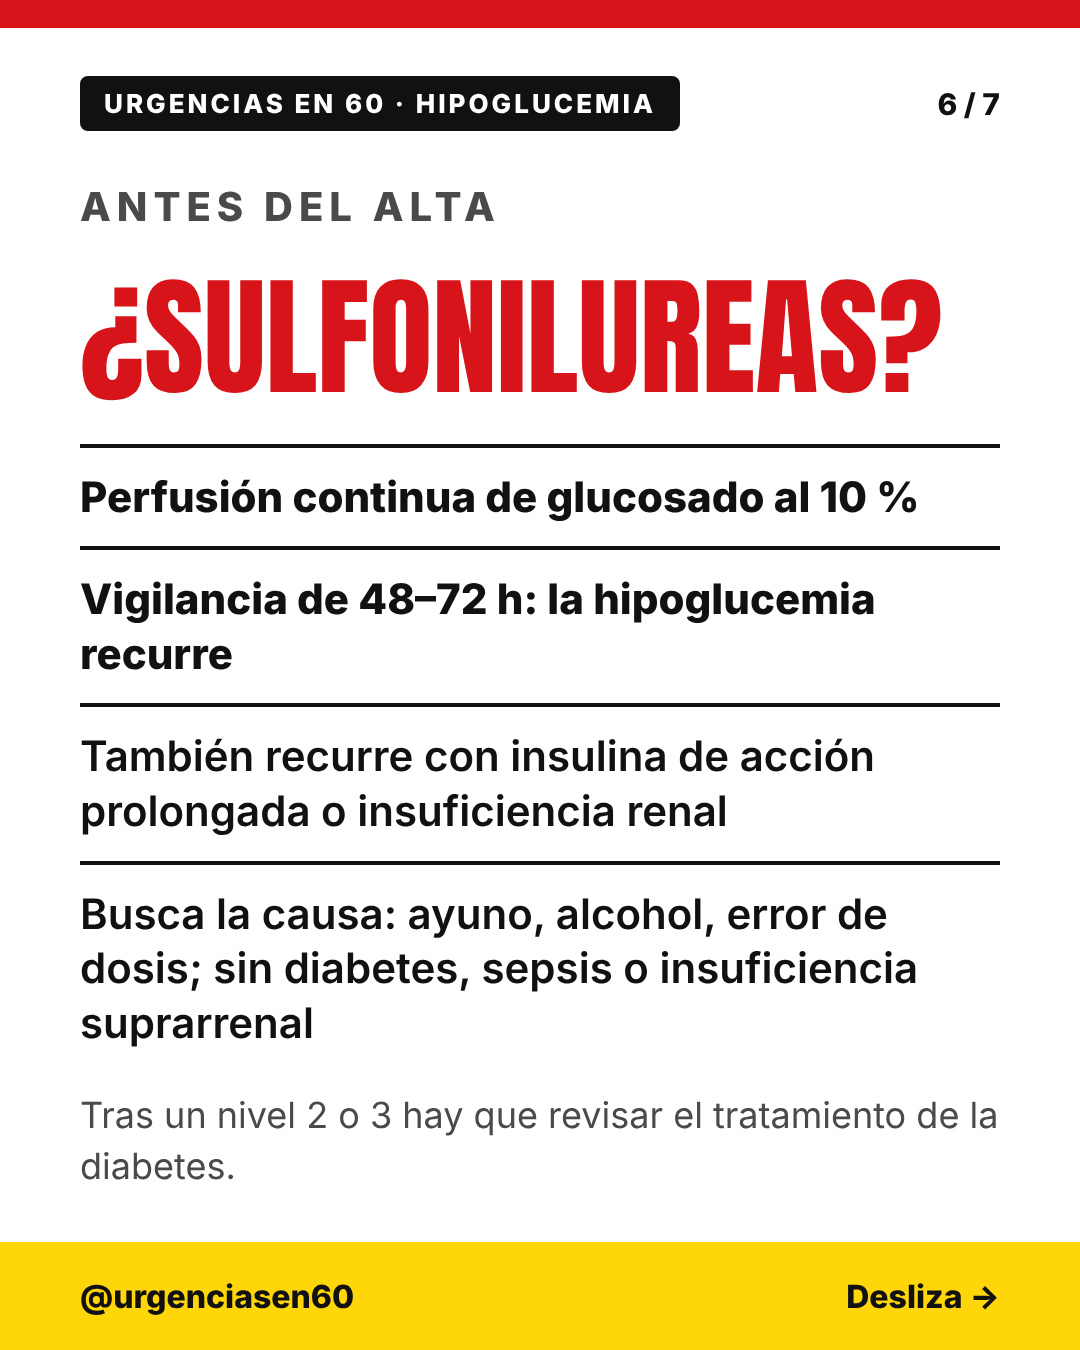
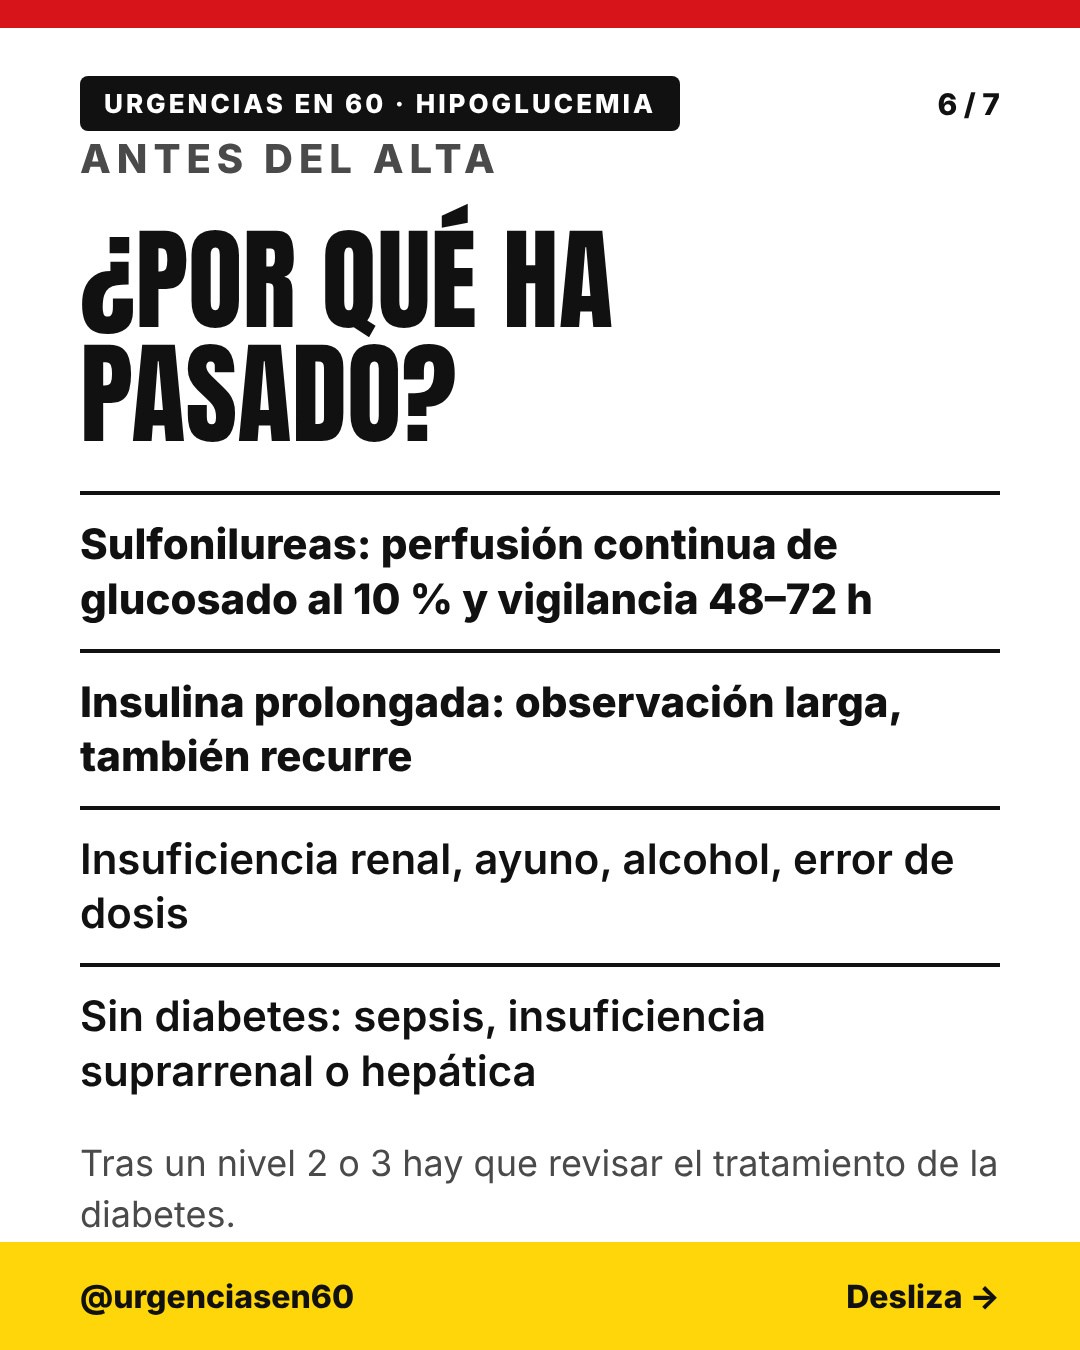
Ficha 05: recupera diapo 6 «¿Por qué ha pasado?» con sulfonilureas (G10 % y 48-72 h)
Claude-Session: https://claude.ai/code/session_019S5PG2ppqwuZwMv2DxeA6e

Changed region(s): [[0.0611, 0.0933, 0.9167, 0.9333]]

diff --git a/tools/hipoglucemia.py b/tools/hipoglucemia.py
@@ -9,7 +9,7 @@ page(2,N,T,big("TRES NIVELES",150,nowrap=True)+rows(row("Nivel 1","&lt; 70 y ≥
 page(3,N,T,kicker("SI ESTÁ CONSCIENTE")+big("REGLA 15 / 15",165,R,True)+'<div style="font-size:50px;font-weight:800;line-height:1.2">15–20 g de glucosa oral y nueva glucemia a los 15 min</div>'+rows(line("Si sigue &lt; 70 mg/dl, repite la dosis"),line("Al recuperarse: hidratos de absorción lenta para evitar la recaída",True))),
 page(4,N,T,kicker("SI NO PUEDE TRAGAR")+big("GLUCOSA IV",190,R,True)+rows(row("Dosis","10–25 g de glucosa IV"),row("Glucosado al 10 %","100–250 ml"),row("Glucosado al 33 %","30–75 ml"),row("Glucosado al 50 %","20–50 ml"))+note("Glucemia de control a los 15 min y repite si sigue baja. Las concentraciones altas irritan la vena: usa una vía gruesa.")),
 page(5,N,T,kicker("SIN VÍA VENOSA")+big("GLUCAGÓN",220,R,True)+'<div style="font-size:50px;font-weight:800;line-height:1.2">1 mg intramuscular o subcutáneo</div>'+rows(line("También existe la presentación intranasal"),line("Responde peor si no hay reservas de glucógeno: desnutrición, alcohol, hepatopatía",True))),
-page(6,N,T,kicker("ANTES DEL ALTA")+big("¿SULFONILUREAS?",130,R,True)+rows(line("Perfusión continua de glucosado al 10 %",True),line("Vigilancia de 48–72 h: la hipoglucemia recurre",True),line("También recurre con insulina de acción prolongada o insuficiencia renal"),line("Busca la causa: ayuno, alcohol, error de dosis; sin diabetes, sepsis o insuficiencia suprarrenal"))+note("Tras un nivel 2 o 3 hay que revisar el tratamiento de la diabetes.")),
+page(6,N,T,kicker("ANTES DEL ALTA")+big("¿POR QUÉ HA PASADO?",112)+rows(line("Sulfonilureas: perfusión continua de glucosado al 10 % y vigilancia 48–72 h",True),line("Insulina prolongada: observación larga, también recurre",True),line("Insuficiencia renal, ayuno, alcohol, error de dosis"),line("Sin diabetes: sepsis, insuficiencia suprarrenal o hepática"))+note("Tras un nivel 2 o 3 hay que revisar el tratamiento de la diabetes.")),
 page(7,N,T,ficha_body("HIPOGLUCEMIA","Adulto",[("NIVELES","1: &lt; 70 mg/dl. 2: &lt; 54 mg/dl. 3: necesita ayuda externa"),("CONSCIENTE","15–20 g de glucosa oral. Glucemia a los 15 min; repetir si &lt; 70",True),("NO TRAGA","Glucosa IV 10–25 g: 100–250 ml al 10 %, 30–75 ml al 33 % o 20–50 ml al 50 %",True),("SIN VÍA","Glucagón 1 mg IM o SC"),("DESPUÉS","Hidratos de absorción lenta. Buscar la causa"),("SULFONIL.","Perfusión de glucosado al 10 % y vigilancia 48–72 h",True)],"ADA. Standards of Care in Diabetes 2025–2026 (hipoglucemia); protocolo de Urgencias HUPM",size=124,fs=30),ficha="05"),
 ]
 render(P,sys.argv[1] if len(sys.argv)>1 else "out","hipoglucemia")
